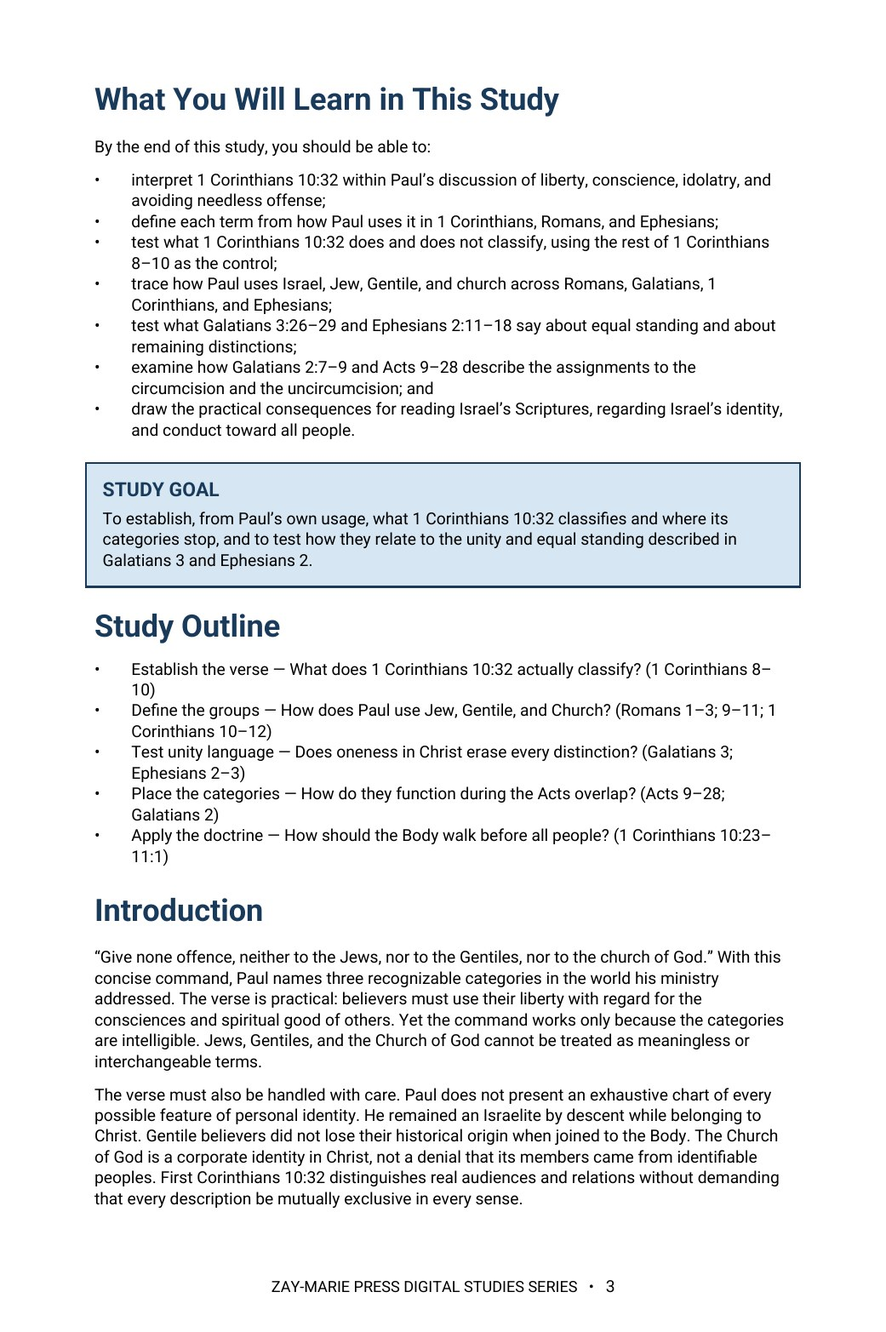
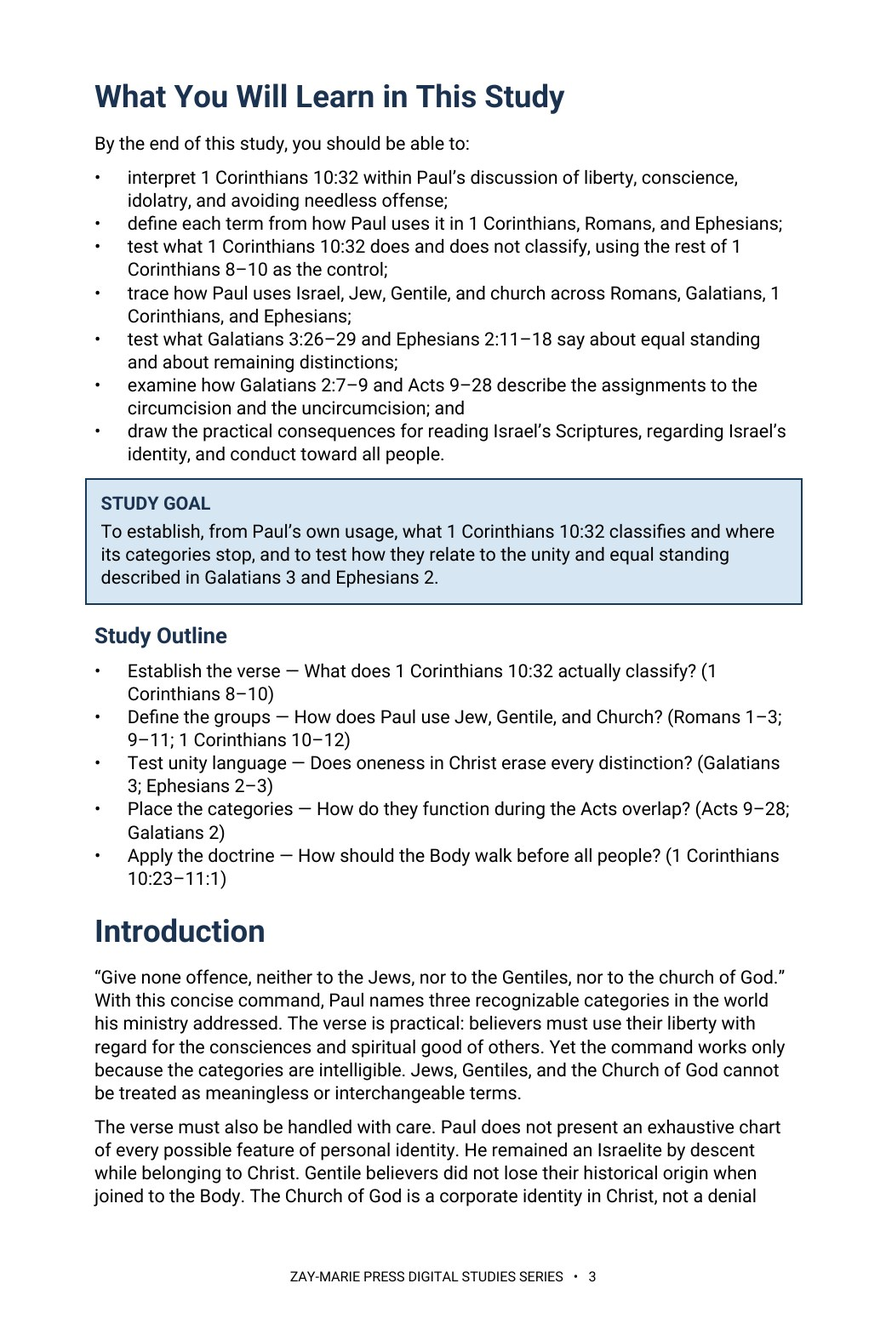
Study 36: page count 20, rebuilt preview pages and trackers for Roboto 10 pt build on current page
Claude-Session: https://claude.ai/code/session_01HC7bs9KYP2scp4hCL6DkTp

Changed region(s): [[0.0922, 0.0615, 0.9222, 0.9219], [0.3074, 0.9526, 0.6455, 0.9834], [0.8607, 0.5839, 0.8915, 0.6146]]

diff --git a/study-36-jews-gentiles-and-the-church-of-god.html b/study-36-jews-gentiles-and-the-church-of-god.html
@@ -2,12 +2,12 @@
 <html lang="en"><head><meta charset="utf-8"><meta name="viewport" content="width=device-width,initial-scale=1"><title>Jews, Gentiles, and the Church of God | Zay-Marie Press</title><meta name="description" content="Examine the threefold identity of 1 Corinthians 10:32 and distinguish Jewish or Gentile origin from the Church of God’s corporate standing in Christ."><link rel="stylesheet" href="styles.css?v=20260921-4"><link rel="icon" type="image/png" href="assets/zay-marie-press-favicon.png"><style>
 .study-detail-page{background:#fff;color:#252525}.detail-hero{background:linear-gradient(135deg,#f8f5ec,#e3ece2);padding:58px 0}.detail-hero-grid{display:grid;grid-template-columns:minmax(250px,.72fr) minmax(0,1.28fr);gap:58px;align-items:center}.detail-cover{max-width:390px;margin:auto}.detail-cover img{display:block;width:100%;height:auto;box-shadow:0 14px 36px rgba(8,45,69,.18)}.detail-hero h1{font-size:clamp(2.7rem,5vw,4.7rem);line-height:1.02;margin:8px 0 10px;color:#143823}.detail-subtitle{font-family:Georgia,serif;font-size:1.35rem;font-weight:700;color:#082d45;margin:0 0 7px}.detail-kicker{font-family:Georgia,serif;font-style:italic;font-size:1.05rem;color:#4a4a44;margin:0 0 22px}.detail-copy{font-size:1.08rem;line-height:1.65;max-width:760px}.detail-buyline{display:flex;align-items:center;gap:18px;flex-wrap:wrap;margin-top:25px}.detail-price{font-family:Georgia,serif;font-size:2rem;font-weight:700;color:#143823}.detail-format,.preview-card .page-no{font-family:Arial,sans-serif;font-size:.76rem;font-weight:700;letter-spacing:.1em;text-transform:uppercase;color:#176b3a}.detail-button{display:inline-block;background:#176b3a;color:#fff;padding:13px 22px;font-family:Arial,sans-serif;font-size:.8rem;font-weight:700;letter-spacing:.07em;text-transform:uppercase}.detail-button.pending{opacity:.72;cursor:default}.detail-section{padding:66px 0}.detail-section.soft{background:#f6f7f2}.detail-section.cream{background:#faf8f2}.detail-section h2{color:#143823;margin:6px 0 18px;font-size:clamp(2rem,3.4vw,3rem)}.detail-section .lead{max-width:920px;font-size:1.1rem;line-height:1.62}.study-distinction{max-width:920px;margin-top:28px;margin-bottom:28px;padding:26px 28px;background:#fff;border:1px solid #d8d1bf;border-left:4px solid #b8871c}.study-distinction h3{margin:0 0 10px;color:#143823}.study-distinction p{margin:0 0 14px;line-height:1.62}.study-distinction a{font-family:Arial,sans-serif;font-weight:700;color:#176b3a;text-decoration:none}.study-points{display:grid;grid-template-columns:repeat(3,1fr);gap:18px;margin-top:28px;margin-bottom:28px}.study-point,.scripture-card,.preview-card,.include-item{background:#fff;border:1px solid var(--line);text-align:left}.study-point{border-top:3px solid #176b3a;padding:22px}.study-point h3{color:#143823;margin:0 0 8px;font-size:1.2rem}.study-point p,.scripture-card p,.preview-card p,.include-item p{margin:0;line-height:1.55}.scripture-grid{display:grid;grid-template-columns:repeat(4,1fr);gap:14px;margin-top:24px;margin-bottom:24px}.scripture-card{padding:22px 20px;color:#143823}.scripture-card h3{margin:0 0 9px;font-family:Georgia,serif;font-size:1rem;line-height:1.35}.scripture-card p{font-size:.94rem;color:#45453f}.excerpt{max-width:900px;margin:28px auto;border-left:4px solid #b8871c;padding:10px 0 10px 28px}.excerpt blockquote{font-family:Georgia,serif;font-size:clamp(1.45rem,2.5vw,2rem);line-height:1.45;color:#143823;margin:0 0 16px}.excerpt p{line-height:1.6;margin:0}.preview-grid{display:grid;grid-template-columns:repeat(2,1fr);gap:20px;margin-top:28px;margin-bottom:28px}.preview-card{padding:18px;min-height:210px;box-shadow:0 7px 20px rgba(20,40,25,.05)}.preview-image-link{display:block;margin:0 0 18px}.preview-image-link img{display:block;width:100%;height:auto;border:1px solid #d8d1bf;box-shadow:0 8px 22px rgba(20,40,25,.1);transition:transform .18s ease,box-shadow .18s ease}.preview-image-link:hover img{transform:translateY(-2px);box-shadow:0 11px 28px rgba(20,40,25,.16)}.preview-card h3{color:#143823;margin:8px 0 10px}.preview-instruction{margin:10px 0 0;font-family:Arial,sans-serif;font-size:.78rem;letter-spacing:.04em;color:#5b5b55}.includes-grid{display:grid;grid-template-columns:repeat(4,1fr);gap:14px;margin-top:26px}.include-item{padding:22px 20px;color:#143823}.include-item h3{margin:0 0 9px;font-family:Arial,sans-serif;font-size:.86rem;line-height:1.35;letter-spacing:.02em}.include-item p{font-size:.94rem;color:#45453f}.final-buy{background:#082d45;color:#fff;border-top:4px solid #b8871c;padding:42px 48px;display:grid;grid-template-columns:1fr auto;gap:36px;align-items:center}.final-buy .eyebrow,.final-buy h2,.final-buy .detail-price{color:#fff}.final-buy h2{margin:7px 0 6px}.final-buy p{margin:0}.final-offer{text-align:center}.back-link{display:inline-block;margin-top:18px;color:#143823;font-family:Arial,sans-serif;font-weight:700;text-decoration:none}.preview-lightbox{position:fixed;inset:0;z-index:10000;display:none;align-items:flex-start;justify-content:center;background:rgba(8,22,16,.88);padding:24px;overflow:auto}.preview-lightbox.open{display:flex}.preview-lightbox img{display:block;width:auto;height:auto;max-width:none;box-shadow:0 18px 55px rgba(0,0,0,.4);background:#fff}.preview-lightbox-close{position:fixed;top:18px;right:24px;z-index:10001;width:46px;height:46px;border:1px solid rgba(255,255,255,.65);border-radius:50%;background:rgba(0,0,0,.55);color:#fff;font:32px/1 Arial,sans-serif;cursor:pointer}@media(max-width:900px){.detail-hero-grid{grid-template-columns:1fr;gap:34px}.detail-cover{max-width:330px}.study-points{grid-template-columns:repeat(2,1fr)}.scripture-grid,.includes-grid{grid-template-columns:repeat(2,1fr)}.preview-grid,.final-buy{grid-template-columns:1fr}.final-offer{text-align:left}}@media(max-width:560px){.detail-hero{padding:42px 0}.detail-section{padding:50px 0}.study-points,.scripture-grid,.includes-grid{grid-template-columns:1fr}.final-buy{padding:32px 24px}.detail-buyline{align-items:flex-start;flex-direction:column;gap:8px}.preview-lightbox{padding:58px 10px 24px}.preview-lightbox img{width:100%;max-width:100%;height:auto}}</style></head><body class="study-detail-page">
 <header class="site-header"><div class="wrap nav"><a class="logo" href="index.html" aria-label="Zay-Marie Press home"><img src="assets/zay-marie-press-logo-hq.png" alt="Zay-Marie Press" width="420" height="238"></a><button class="menu-toggle" type="button" aria-expanded="false" aria-controls="primary-nav">MENU</button><nav aria-label="Primary navigation" class="primary-nav" id="primary-nav"><a href="index.html">HOME</a><a href="books.html">BOOKS</a><a href="series.html">SERIES</a><a class="active" aria-current="page" href="digital-studies.html">DIGITAL STUDIES</a><a href="biblical-hermeneutics-course.html">COURSE</a><a href="about.html">ABOUT</a><a href="resources.html">RESOURCES</a><a href="contact.html">CONTACT</a></nav></div></header><main>
-<section class="detail-hero"><div class="wrap detail-hero-grid"><div class="detail-cover"><picture><source srcset="assets/study-36-cover.webp" type="image/webp"><img src="assets/study-36-cover.jpg" alt="Jews, Gentiles, and the Church of God cover"></picture></div><div><div class="eyebrow">STUDY 36 · DIGITAL STUDY</div><h1>Jews, Gentiles, and the Church of God</h1><p class="detail-subtitle">The Threefold Identity of 1 Corinthians 10:32</p><p class="detail-kicker">A focused examination of historical origin, corporate standing, and responsible conduct before all people</p><p class="detail-copy">First Corinthians 10:32 names Jews, Gentiles, and the Church of God within Paul’s instruction about liberty, conscience, idolatry, and avoiding needless offense. What do these categories identify, and how do they relate?</p><p class="detail-copy">This study distinguishes historical and national origin from corporate standing in Christ. It explains equal membership in one Body without erasing Israel, the nations, or the distinct apostolic lines operating during the Acts overlap.</p><div class="detail-buyline"><span class="detail-price">$5.99</span><span class="detail-format">Digital PDF · 16 Pages</span><span class="detail-button pending" aria-disabled="true">Checkout Coming Soon</span></div></div></div></section>
+<section class="detail-hero"><div class="wrap detail-hero-grid"><div class="detail-cover"><picture><source srcset="assets/study-36-cover.webp" type="image/webp"><img src="assets/study-36-cover.jpg" alt="Jews, Gentiles, and the Church of God cover"></picture></div><div><div class="eyebrow">STUDY 36 · DIGITAL STUDY</div><h1>Jews, Gentiles, and the Church of God</h1><p class="detail-subtitle">The Threefold Identity of 1 Corinthians 10:32</p><p class="detail-kicker">A focused examination of historical origin, corporate standing, and responsible conduct before all people</p><p class="detail-copy">First Corinthians 10:32 names Jews, Gentiles, and the Church of God within Paul’s instruction about liberty, conscience, idolatry, and avoiding needless offense. What do these categories identify, and how do they relate?</p><p class="detail-copy">This study distinguishes historical and national origin from corporate standing in Christ. It explains equal membership in one Body without erasing Israel, the nations, or the distinct apostolic lines operating during the Acts overlap.</p><div class="detail-buyline"><span class="detail-price">$5.99</span><span class="detail-format">Digital PDF · 20 Pages</span><span class="detail-button pending" aria-disabled="true">Checkout Coming Soon</span></div></div></div></section>
 <section class="detail-section"><div class="wrap"><div class="eyebrow">ABOUT THIS STUDY</div><h2>Three Meaningful Categories, One Practical Command</h2><p class="lead">Paul’s command works because Jews, Gentiles, and the Church of God are recognizable categories. Yet the verse is not a simplistic census of mutually exclusive social identities. Paul remained an Israelite by descent while belonging to Christ, and Gentile believers retained their historical origin while receiving the same corporate standing in the Body.</p><p class="lead">The study therefore asks what question each designation answers. Historical origin, national relation, corporate standing, audience, and programmatic setting must be distinguished before the verse can be applied responsibly.</p><p class="lead">This is not a study of the broad Israel–Body distinction itself, which Study 4 establishes across every point of contrast, nor of the disputed identity expressions tested in Study 35, such as “Israel of God” and “spiritual Israel.” Its task is narrower: to fix 1 Corinthians 10:32’s three named categories to Paul’s own case — a Jew by descent who stands in the Body as a member of it, not as Israel — and to show that a single verse naming three groups was never meant to erase what distinguishes them.</p><div class="study-distinction"><h3>How These Studies Relate</h3><p>Study 36 reads Jews, Gentiles, and the Church of God in 1 Corinthians 10:32 and distinguishes historical origin from standing in one Body.</p><p><a href="study-04-israel-and-the-body-of-christ.html">Study 4 — Israel and the Body of Christ</a> Set these three categories within the broader corporate distinction between Israel and the Body; this explains why origin and present membership answer different questions.</p><p><a href="study-35-who-is-the-israel-of-god.html">Study 35 — Who Is the Israel of God?</a> Test contested labels such as ‘Israel of God’ against Paul’s categories instead of using one debated phrase to erase distinctions elsewhere.</p><p class="connection-guide-link"><a href="study-connections.html#study-36">Explore the full connection guide for Study 36 →</a></p></div></div></section>
 <section class="detail-section soft"><div class="wrap"><div class="eyebrow">WHAT YOU’LL STUDY</div><h2>Read Every Identity Term at the Right Level</h2><div class="study-points"><div class="study-point"><h3>The Immediate Context</h3><p>Place 1 Corinthians 10:32 within Paul’s teaching on liberty, conscience, idolatry, edification, and avoiding needless offense.</p></div><div class="study-point"><h3>Jews and Gentiles</h3><p>Define Israel’s continuing historical category and the nations outside Israel without making natural origin a basis of spiritual rank.</p></div><div class="study-point"><h3>The Church of God</h3><p>Identify the called corporate people addressed in Paul’s Mystery apostleship and their unity as one Body in Christ.</p></div><div class="study-point"><h3>Origin and Standing</h3><p>Compare what Paul says about Jewish or Gentile background with what he says about the believer’s corporate standing.</p></div><div class="study-point"><h3>Equality Without Erasure</h3><p>Read Galatians 3 and Ephesians 2 without turning equal standing into the disappearance of every historical or programmatic distinction.</p></div><div class="study-point"><h3>The Acts Overlap</h3><p>Trace how Acts 9–28 and Galatians 2:7–9 frame the Prophecy and Mystery programs and the assignments of Peter and Paul.</p></div></div></div></section>
 <section class="detail-section cream"><div class="wrap"><div class="eyebrow">KEY SCRIPTURES</div><h2>Follow Paul’s Categories Across the Argument</h2><div class="scripture-grid"><div class="scripture-card"><h3>1 Corinthians 8–10</h3><p>Liberty is governed by love, conscience, edification, God’s glory, and another person’s spiritual good.</p></div><div class="scripture-card"><h3>1 Corinthians 10:32</h3><p>Jews, Gentiles, and the Church of God are named within one practical command.</p></div><div class="scripture-card"><h3>1 Corinthians 12:12–13</h3><p>Jewish and Gentile believers are identified by one Spirit into one Body.</p></div><div class="scripture-card"><h3>Romans 3:9, 29–30</h3><p>Jews and Gentiles share guilt and the need for justification without losing their designations.</p></div><div class="scripture-card"><h3>Romans 9–11</h3><p>Israel, the faithful remnant, and Gentiles remain distinguishable within Paul’s programmatic argument.</p></div><div class="scripture-card"><h3>Galatians 3:26–29</h3><p>Equal standing in Christ removes status-based superiority without erasing every distinction.</p></div><div class="scripture-card"><h3>Ephesians 2:11–18</h3><p>Christ reconciles both in one new man and one Body rather than turning either former group into the other.</p></div><div class="scripture-card"><h3>Galatians 2:7–9</h3><p>Peter and Paul represent two distinct apostolic lines operating concurrently during the Acts overlap.</p></div></div></div></section>
 <section class="detail-section"><div class="wrap"><div class="eyebrow">FROM THE STUDY</div><h2>Historical Origin and Corporate Standing</h2><div class="excerpt"><blockquote>“A Jewish believer may retain Jewish descent as a historical fact while possessing a new corporate identity in the Body, and is not Israel. A Gentile believer may retain Gentile origin while possessing the same standing in Christ.”</blockquote><p>The descriptions answer related but different questions. Equality in Christ removes every claim to spiritual superiority without making Israel, the nations, or the Body meaningless categories.</p></div></div></section>
-<section class="detail-section soft"><div class="wrap"><div class="eyebrow">A LOOK INSIDE</div><h2>Preview the Study Before You Purchase</h2><p class="preview-instruction">Click any page to enlarge it for reading.</p><div class="preview-grid"><div class="preview-card"><a class="preview-image-link" data-preview-lightbox href="assets/study-36-page-2.jpg"><img src="assets/study-36-page-2.jpg" alt="Study 36 interior preview — page 2, table of contents"></a><div class="page-no">Page 2</div><h3>Table of Contents</h3><p>See the study’s full structure and scope at a glance.</p></div><div class="preview-card"><a class="preview-image-link" data-preview-lightbox href="assets/study-36-page-3.jpg"><img src="assets/study-36-page-3.jpg" alt="Study 36 interior preview — page 3, learning outcomes, Study Goal, and Study Outline"></a><div class="page-no">Page 3</div><h3>Learning Outcomes and Study Goal</h3><p>Begin with the questions, passages, and interpretive controls that govern the study.</p></div><div class="preview-card"><a class="preview-image-link" data-preview-lightbox href="assets/study-36-page-5.jpg"><img src="assets/study-36-page-5.jpg" alt="Study 36 interior preview — page 5, the Jews, the Gentiles, and a category table"></a><div class="page-no">Page 5</div><h3>The Jews and the Gentiles in Paul’s Usage</h3><p>See how each term is defined from Paul’s own wording and set beside what it does not guarantee.</p></div></div></div></section>
+<section class="detail-section soft"><div class="wrap"><div class="eyebrow">A LOOK INSIDE</div><h2>Preview the Study Before You Purchase</h2><p class="preview-instruction">Click any page to enlarge it for reading.</p><div class="preview-grid"><div class="preview-card"><a class="preview-image-link" data-preview-lightbox href="assets/study-36-page-2.jpg"><img src="assets/study-36-page-2.jpg" alt="Study 36 interior preview — page 2, table of contents"></a><div class="page-no">Page 2</div><h3>Table of Contents</h3><p>See the study’s full structure and scope at a glance.</p></div><div class="preview-card"><a class="preview-image-link" data-preview-lightbox href="assets/study-36-page-3.jpg"><img src="assets/study-36-page-3.jpg" alt="Study 36 interior preview — page 3, learning outcomes, Study Goal, and Study Outline"></a><div class="page-no">Page 3</div><h3>Learning Outcomes and Study Goal</h3><p>Begin with the questions, passages, and interpretive controls that govern the study.</p></div><div class="preview-card"><a class="preview-image-link" data-preview-lightbox href="assets/study-36-page-6.jpg"><img src="assets/study-36-page-6.jpg" alt="Study 36 interior preview — page 6, the Jews, the Gentiles, and a category table"></a><div class="page-no">Page 6</div><h3>The Jews and the Gentiles in Paul’s Usage</h3><p>See how each term is defined from Paul’s own wording and set beside what it does not guarantee.</p></div></div></div></section>
 <section class="detail-section"><div class="wrap"><div class="eyebrow">WHAT’S INCLUDED</div><h2>A Focused Study Built for<br>Doctrinal Precision and Responsible Application</h2><div class="includes-grid"><div class="include-item"><h3>Focused Biblical Study</h3><p>A sustained examination of 1 Corinthians 10:32 and the identity questions that surround Paul’s threefold designation.</p></div><div class="include-item"><h3>Fourteen Teaching Sections</h3><p>Move from the immediate context through Romans, Galatians, Ephesians, the Acts overlap, and present doctrine.</p></div><div class="include-item"><h3>Contextual Exegesis</h3><p>Examine named audiences, argument, historical origin, corporate standing, and programmatic setting.</p></div><div class="include-item"><h3>High-Contrast Tables</h3><p>Compare categories, questions, designations, and controls without simplifying or collapsing identity.</p></div><div class="include-item"><h3>Scripture-Tracing Exercise</h3><p>Trace Jew, Gentile, Church of God, one Body, remnant, and apostolic line across the principal passages.</p></div><div class="include-item"><h3>Review Questions</h3><p>Test the difference between equality, origin, standing, audience, participation, and corporate identity.</p></div><div class="include-item"><h3>Teaching Outline</h3><p>Use a ready framework for teaching the verse, defining the categories, testing unity language, and applying the doctrine.</p></div><div class="include-item"><h3>Guided Further Study</h3><p>Grouped investigations support deeper work in Corinthians, Romans, Galatians, Ephesians, and the Acts overlap.</p></div></div></div></section>
-<section class="detail-section cream"><div class="wrap"><div class="final-buy"><div><div class="eyebrow">STUDY 36 · DIGITAL STUDY</div><h2>Jews, Gentiles, and the Church of God</h2><p>Digital PDF · 16 Pages · For personal use</p></div><div class="final-offer"><div class="detail-price">$5.99</div><span class="detail-button pending" aria-disabled="true">Checkout Coming Soon</span></div></div><a class="back-link" href="digital-studies.html">← Back to All Digital Studies</a></div></section><section class="study-method-course-bridge"><div class="wrap"><div class="study-method-course-panel"><div><div class="eyebrow">BUILD THE INTERPRETIVE METHOD</div><h2>Want More Than a Focused Study?</h2><p>Digital Studies examine particular biblical subjects and difficult passages. The 40-lesson Biblical Hermeneutics course teaches a complete, repeatable method for establishing meaning in context, determining proper assignment, and making responsible application.</p></div><a class="btn btn-primary" href="biblical-hermeneutics-course.html">BIBLICAL HERMENEUTICS COURSE</a></div></div></section></main>
+<section class="detail-section cream"><div class="wrap"><div class="final-buy"><div><div class="eyebrow">STUDY 36 · DIGITAL STUDY</div><h2>Jews, Gentiles, and the Church of God</h2><p>Digital PDF · 20 Pages · For personal use</p></div><div class="final-offer"><div class="detail-price">$5.99</div><span class="detail-button pending" aria-disabled="true">Checkout Coming Soon</span></div></div><a class="back-link" href="digital-studies.html">← Back to All Digital Studies</a></div></section><section class="study-method-course-bridge"><div class="wrap"><div class="study-method-course-panel"><div><div class="eyebrow">BUILD THE INTERPRETIVE METHOD</div><h2>Want More Than a Focused Study?</h2><p>Digital Studies examine particular biblical subjects and difficult passages. The 40-lesson Biblical Hermeneutics course teaches a complete, repeatable method for establishing meaning in context, determining proper assignment, and making responsible application.</p></div><a class="btn btn-primary" href="biblical-hermeneutics-course.html">BIBLICAL HERMENEUTICS COURSE</a></div></div></section></main>
 <div class="preview-lightbox" id="preview-lightbox" role="dialog" aria-modal="true" aria-label="Expanded study preview"><button class="preview-lightbox-close" type="button" aria-label="Close preview">×</button><img id="preview-lightbox-image" alt=""></div><footer class="site-footer"><div class="wrap footer-grid"><div class="footer-about"><h3>Zay-Marie Press</h3><p class="footer-tagline"><em>Where the Bible Means What It Says.</em></p><p>Zay-Marie Press is a Christian theological publisher dedicated to producing doctrinally precise, carefully structured biblical resources that equip pastors, teachers, and serious students with clarity, depth, and Scripture-anchored truth.</p><p><a href="https://zaymariepress.com">zaymariepress.com</a><br><a href="mailto:info@zaymariepress.com">info@zaymariepress.com</a></p></div><div class="footer-column"><h3>Explore</h3><div class="footer-links-stacked"><a href="books.html">Books</a><br><a href="series.html">Series</a><br><a href="biblical-hermeneutics-course.html">Course</a><br><a href="digital-studies.html">Digital Studies</a><br><a href="resources.html">Resources</a><br><a href="bible-book-summaries.html">Bible Book Summaries</a><br><a href="doctrinal-packets.html">Doctrinal Packets</a><br><a href="historical-drift.html">Historical Drift</a><br><a href="about.html">About</a><br><a href="contact.html">Contact</a></div></div><div class="footer-column"><h3>Reader Support</h3><div class="footer-links-stacked"><a href="reader-support.html#faq">FAQ</a><br><a href="reader-support.html#shipping-returns">Shipping &amp; Returns</a><br><a href="reader-support.html#digital-downloads">Digital Downloads</a><br><a href="reader-support.html#contact-support">Contact Support</a></div></div><div class="footer-column"><h3>Acts Overlap</h3><p><strong>Acts Overlap Theology Series</strong></p><p><em>Two Distinct Streams. One Overlap.</em></p><p><a href="series.html">Series Overview</a></p></div></div><div class="wrap footer-bottom">© 2026 Zay-Marie Press. All rights reserved.</div></footer><script src="site.js"></script><script>const lightbox=document.getElementById('preview-lightbox'),lightboxImage=document.getElementById('preview-lightbox-image'),closeLightbox=()=>{lightbox.classList.remove('open');lightboxImage.src='';};document.querySelectorAll('[data-preview-lightbox]').forEach(link=>link.addEventListener('click',event=>{event.preventDefault();lightboxImage.src=link.href;lightboxImage.alt=link.querySelector('img').alt;lightbox.classList.add('open');}));document.querySelector('.preview-lightbox-close').addEventListener('click',closeLightbox);lightbox.addEventListener('click',event=>{if(event.target===lightbox)closeLightbox();});document.addEventListener('keydown',event=>{if(event.key==='Escape')closeLightbox();});</script></body></html>

diff --git a/site.js b/site.js
@@ -62,7 +62,7 @@ const resourceModal=document.querySelector('#resource-modal'), resourceModalTitl
 if(resourceModal&&resourceModalTriggers.length){const closeResourceModal=()=>{resourceModal.hidden=true;document.body.classList.remove('resource-modal-open');lastResourceTrigger?.focus();};resourceModalTriggers.forEach(trigger=>trigger.addEventListener('click',()=>{lastResourceTrigger=trigger;if(resourceModalTitle)resourceModalTitle.textContent=trigger.dataset.title||'Resource';if(resourceModalDescription)resourceModalDescription.textContent=trigger.dataset.description||'';if(resourceModalLink){resourceModalLink.href=trigger.dataset.href||'#';resourceModalLink.textContent=trigger.dataset.linkText||'OPEN RESOURCE';}resourceModal.hidden=false;document.body.classList.add('resource-modal-open');resourceModalClose?.focus();}));resourceModalClose?.addEventListener('click',closeResourceModal);resourceModal.addEventListener('click',e=>{if(e.target===resourceModal)closeResourceModal();});document.addEventListener('keydown',e=>{if(e.key==='Escape'&&!resourceModal.hidden)closeResourceModal();});}
 
 /* Display the verified final-PDF page count at the primary purchase decision point. */
-const digitalStudyPageCounts={1:17,2:19,3:16,4:17,5:15,6:15,7:14,8:13,9:15,10:20,11:15,12:15,13:18,14:15,15:15,16:16,17:17,18:18,19:16,20:15,21:16,22:15,23:14,24:16,25:17,26:16,27:16,28:17,29:19,30:18,31:18,32:19,33:18,34:20,35:22,36:16,37:16,38:16,39:16,40:16,41:16,42:17,43:17,44:19,45:19,46:20,47:19,48:18,49:20,50:19,51:20,52:19,53:19,54:17,55:20,56:20,57:20,58:19,59:20,60:15,61:16,62:18,63:17,64:17,65:16,66:16,67:17,68:16,69:17,70:17,71:16};
+const digitalStudyPageCounts={1:17,2:19,3:16,4:17,5:15,6:15,7:14,8:13,9:15,10:20,11:15,12:15,13:18,14:15,15:15,16:16,17:17,18:18,19:16,20:15,21:16,22:15,23:14,24:16,25:17,26:16,27:16,28:17,29:19,30:18,31:18,32:19,33:18,34:20,35:22,36:20,37:16,38:16,39:16,40:16,41:16,42:17,43:17,44:19,45:19,46:20,47:19,48:18,49:20,50:19,51:20,52:19,53:19,54:17,55:20,56:20,57:20,58:19,59:20,60:15,61:16,62:18,63:17,64:17,65:16,66:16,67:17,68:16,69:17,70:17,71:16};
 const digitalStudyMatch=window.location.pathname.match(/\/study-(\d+)-/i);
 const digitalStudyFormat=document.querySelector('.detail-hero .detail-format');
 if(digitalStudyMatch&&digitalStudyFormat){const studyNumber=Number(digitalStudyMatch[1]),pageCount=digitalStudyPageCounts[studyNumber];if(pageCount)digitalStudyFormat.textContent=`Digital PDF · ${pageCount} Pages`;}

diff --git a/CLAUDE.md b/CLAUDE.md
@@ -23,7 +23,7 @@ These are kept in the repo at `controlling-documents/` and are the current versi
 - As of v1.50 (publisher directive, 2026-10-03), the **What You Will Learn in This Study** section is always bulleted, never set as running paragraphs, written into this file in the same pass (Master Standard Section 3 item 4, Section 6 structure line, Section 22): a list of bullet points, each describing one process, textual marker or interpretive discipline the reader will practice (Section 17 still governs what they may say); at most one short lead-in line may stand above the bullets (for example, “By the end of this study, you should be able to:”); the Study Goal callout and the Study Outline keep their own forms. It governs every new study and every study rebuilt or retrofitted from now on; earlier studies take it when reopened or when the publisher directs. In every study check (Step 1), report whether the section is bulleted. First applied to Study 43.
 **`controlling-documents/Digital_Studies_Relationship_Map_v1.39.md`** — records each study's distinct subject, its related studies, the eight priced six-study collections, the Paul's Missionary Journeys cross-reference map, and the five primary catalog categories (currently version 1.39, covers Studies 1–71; update it as new studies publish, bump the version number, rename the file to match, and log the change in its own version-history table — mirroring the Master Standard's `_vX.Y` filename convention). Check a proposed topic against it before recommending or writing a new study. (2026-09-28: the file was missing from this repo despite this note referencing it; replaced from the publisher's copy and bumped v1.15→v1.25 in the same pass. If this note ever again points to a version not present under `controlling-documents/`, ask the publisher for a copy rather than proceeding without the check.)
 - **`controlling-documents/Digital_Studies_Category_Standard_v1.1.md`** — FINAL and binding (publisher, 2026-10-01): the rules for the five primary catalog categories (Foundations, Israel & Prophecy, Body of Christ, Passages, Doctrinal Themes), the ordered decision procedure for new studies, the precedents, all 71 fixed assignments, and the cover-label form for each category. Read it before placing any card or cover label. Do not ask the publisher where a study belongs; apply the procedure and state the result. Only the publisher changes a ruling; then bump this Standard's version and filename, re-letter the cover, and update the Relationship Map.
-- **`controlling-documents/Doctrinal_Upgrade_Retrofit_Plan_v1.114.md`** — working tracker for retrofitting Studies 1–59 to the 2026-10-02 doctrinal upgrade (Framework/PAM v1.1, Master Standard v1.40, Rules 7–17): withdrawn-wording search keys, impact tiers, waves and the per-study method. Read it before continuing the retrofit in any session; update status, bump the version and rename the file as work proceeds.
+- **`controlling-documents/Doctrinal_Upgrade_Retrofit_Plan_v1.115.md`** — working tracker for retrofitting Studies 1–59 to the 2026-10-02 doctrinal upgrade (Framework/PAM v1.1, Master Standard v1.40, Rules 7–17): withdrawn-wording search keys, impact tiers, waves and the per-study method. Read it before continuing the retrofit in any session; update status, bump the version and rename the file as work proceeds.
 - **`controlling-documents/Doctrinal_Packet_Standard_v0.3.md`** — Doctrinal Packet Standard (DRAFT; §7 approved). Governs the separate Doctrinal Packets product strand (5-page interpretive PDFs per Bible book — a print-friendly cover as page 1 plus 4 content pages, $2.99, KJV, pilot: Genesis, live at `packet-genesis.html`, hub `doctrinal-packets.html`; site pages say "5 Pages", cover styles live in `packets.css`, Old Testament blue and New Testament soft pale green, hub listed in Bible order). **Preview rule (publisher directive, 2026-09-29, packets only):** previews show about one page's worth in two cropped views (top of page 1 through the anchor texts; the chart section) — never the exegesis, architecture, Mystery contrast, logic chain, outline, or closing. Master Standard §16/§17 still govern Digital Studies. Bump the version and rename the file as the Standard is finalized.
 - **`controlling-documents/Preview_Page_Spoiler_Retrofit_Audit_v1.4.md`** — working tracker for the Studies 1–60 preview-page conclusion-spoiler retrofit (see the section below). Read it before continuing that audit in any session; update its status fields and changelog, bump the version, and rename the file to match as the audit proceeds — same `_vX.Y` convention as the other controlling documents. As of v1.1, the website-side half was DONE: all 60 studies' "What You'll Study" text was judged against the rule (methodology documented in the file) and 22 points across 11 studies were rewritten and pushed; an unrelated Study 22 content bug (Study 21's content had leaked into it) was also found and fixed. As of v1.2, the publisher supplied Studies 1–60's interior production PDFs and the interior-PDF half was also surveyed (read-only): 10 studies (37, 41, 45, 47, 48, 49, 51, 52, 53, 54) were found to have at least one interior "What You Will Learn" violation, 50 studies were confirmed compliant, and the orphaned `assets/study-45-sanctification-under-grace.docx` (removed from the repo per the publisher in v1.0) was confirmed word-for-word identical to Study 45's actual production interior PDF content. As of v1.3, the publisher supplied editable DOCX sources for all 10 violating studies; all 15 violating points were rewritten and approved, delivered as corrected final PDFs, and — along the way — a second defect was found and fixed (Studies 47 and 48's source DOCX still had an unintegrated cover placeholder despite both being long-published live with real covers; fixed by inserting the existing approved cover art). The website's "What You Will Learn" preview image (`study-NN-page-3.jpg`) was regenerated from the corrected content for all 10 studies and pushed to `main` (commit `cea1859`), verified against a fresh clone. **The website side of this audit is now fully compliant for all 60 studies.** Outstanding: the publisher's purchasable interior PDF files themselves have corrected versions delivered, but distribution to existing purchasers was decided by the publisher on 2026-09-29: silent swap of the files behind the existing downloads, no reissue notice (recorded in the v1.4 changelog entry; the product files are not in this repo).
 

diff --git a/controlling-documents/Doctrinal_Upgrade_Retrofit_Plan_v1.115.md b/controlling-documents/Doctrinal_Upgrade_Retrofit_Plan_v1.115.md
@@ -207,3 +207,4 @@ Working tracker for correcting published studies to the Framework/PAM v1.1, Mast
 - v1.112 (2026-10-04): Study 30 rebuilt in Roboto at 10 pt on the current page, 18 pages (was 17 on the old 432×648 page). WYWL lead-in standardized (seven bullets already process lines, kept); 'The controlling Framework…/the Framework's doctrinal position' reworded to study-owned wording; Acts 28 wording conformed (nationally suspended—not canceled, transferred or absorbed); overlap and Rule 17 sentences added; duplicated 1 Corinthians 3:8–15 paragraph removed; Teaching Outline numbered.
 - v1.113 (2026-10-04): Study 34 rebuilt in Roboto at 10 pt on the current page, 20 pages (was 16 on the old 432×648 page). WYWL intro paragraph above the lead-in removed (seven process bullets and the passage line kept); 'read as the Framework assigns them' (table cell) reworded to 'read in their own audience and setting'; overlap, Rule 17, Rule 11 and Rule 18 short-form sentences added in section 7; Acts 28 wording conformed with the suspension-boundary sentence; Teaching Outline numbered. Note: Step 1 grep had missed table cells; table cells are now included in the internal-term check. Preview 3 moved from page 5 to page 6 (the vocabulary table).
 - v1.114 (2026-10-04): Study 35 rebuilt in Roboto at 10 pt on the current page, 22 pages (was 16 in the published PDF). The supplied FINAL DOCX was already on the new page in Roboto at 9 pt with typed bullets and numbers: rebuilt with real bullets (WYWL, Study Outline), real numbering (Review questions; Teaching Outline, whose Roman numerals were removed); 'The Olive Tree Firewall governs the reading:' replaced by 'Four boundaries govern the reading:' and the Romans 11 triad plus 'Identity is fixed by divine program, not by metaphor.' added; Acts 28 wording conformed with the suspension-boundary sentence. Overlap, Rule 17, Gal 3 and Gal 6:16 wording already conformed. This closes the Romans 11 depth item for Study 35.
+- v1.115 (2026-10-04): Study 36 rebuilt in Roboto at 10 pt on the current page, 20 pages (was 16 on the old 432×648 page at 8 pt). Romans 11 triad and 'Identity is fixed by divine program, not by metaphor.' added after the Romans 9–11 paragraph; Acts 28 wording conformed with the suspension-boundary sentence; 'the common ground of faith' (Romans 3:29–30 paragraph) replaced under Rule 19 (publisher-approved); WYWL, overlap, remnant/Body and Galatians 3 wording already conformed. Preview 3 moved from page 5 to page 6 (category table). Closes the Romans 11 depth item for Study 36.

diff --git a/controlling-documents/Digital_Studies_PAM_Audit_v1.209.md b/controlling-documents/Digital_Studies_PAM_Audit_v1.209.md
@@ -438,3 +438,4 @@ Study 15 PDF not yet supplied. Typography: none of Studies 2, 3, 6, 8 is in EB G
 - v1.206 (2026-10-04): Study 30 rebuilt in Roboto at 10 pt on the current page, 18 pages; Framework wording removed; Acts 28 wording conformed; overlap and Rule 17 sentences added; duplicate paragraph removed; Teaching Outline numbered (see Retrofit Plan v1.112).
 - v1.207 (2026-10-04): Study 34 rebuilt in Roboto at 10 pt on the current page, 20 pages; Framework wording removed (table cell); overlap, Rule 17, Rule 11 and Rule 18 short-form sentences added; Acts 28 wording conformed; Teaching Outline numbered (see Retrofit Plan v1.113).
 - v1.208 (2026-10-04): Study 35 rebuilt in Roboto at 10 pt on the current page, 22 pages; internal 'Firewall' label removed; Romans 11 triad added; Acts 28 wording conformed; typed bullets and numbering made real (see Retrofit Plan v1.114).
+- v1.209 (2026-10-04): Study 36 rebuilt in Roboto at 10 pt on the current page, 20 pages; Romans 11 triad added; Acts 28 wording conformed; 'common ground of faith' replaced under Rule 19 (see Retrofit Plan v1.115).
